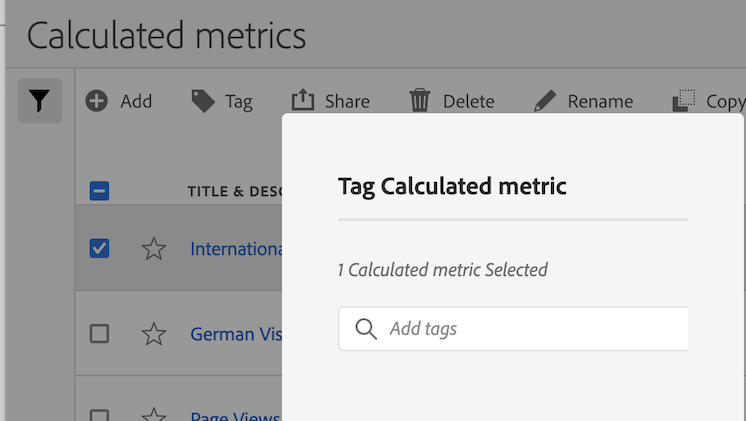
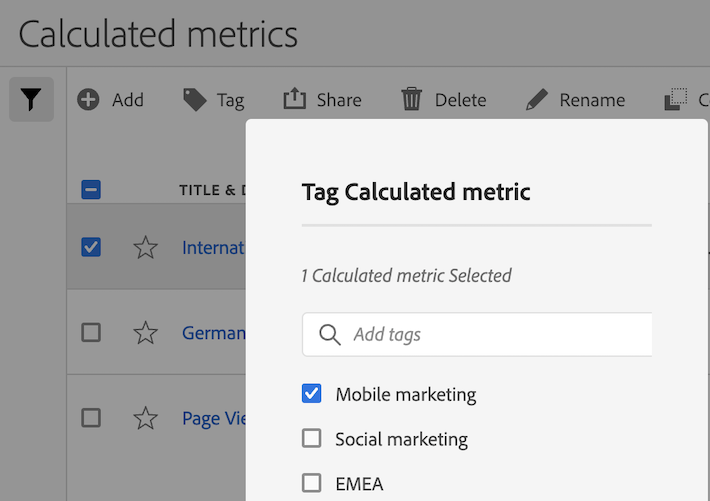
More updates

diff --git a/help/components/c-calcmetrics/c-workflow/cm-workflow/cm-manager.md b/help/components/c-calcmetrics/c-workflow/cm-workflow/cm-manager.md
@@ -1,6 +1,6 @@
 ---
 description: The Calculated metrics page offers many ways of curating metrics, such as sharing, filtering, tagging, approving, copying, deleting, and marking as favorites.
-title: Calculated Metric Manager
+title: Calculated metrics manager
 feature: Calculated Metrics
 exl-id: 32430e77-2450-4672-9c21-255e76802a4c
 ---
@@ -8,23 +8,30 @@ exl-id: 32430e77-2450-4672-9c21-255e76802a4c
 
 The Calculated metrics page offers many ways of curating metrics, such as sharing, filtering, tagging, approving, copying, deleting, and marking as favorites.
 
-The Calculated metrics page shows you all the segments you own and that have been shared with you. Admin-level users can see all custom metrics in the organization. This overview presents the user interface and the capabilities of the Calculated metrics page. Access it by
+The Calculated metrics page shows you all the segments you own and that have been shared with you. Admin-level users can see all custom metrics in the organization. 
 
-* Going to **[!UICONTROL Analytics]** > **[!UICONTROL Components]** in the left navigation. Then click **[!UICONTROL Calculated Metrics]**.
+## Areas of the Calculated metrics manager
+
+The following image and accompanying table explain some of the main areas and features of the Calculated metrics manager. 
 
 ![](assets/calcmet_mgr_ui.png)
 
-| UI Feature  | Description  |
+| Location in image  | Name and function  |
 |---|---|
-| Calculated Metrics Management Tool Bar  | Once you have checked a metric, this tool bar appears. Most management tasks can be completed from this tool bar.  |
-| Show/Hide Filters  | Clicking Show Filters brings up the filter menu. You can filter by Tags, Report Suites, Owners, Show All (Admin only), Shared with Me, Mine, Favorites, and Approved.  |
-| Check boxes  | Check a custom metric in order to manage it.  |
-| Favorites  | Clicking the star next to a metric turns the star yellow and marks the metric as a favorite.  |
-| Segment titles and descriptions  | Provided in the Calculated Metric Builder. To edit the title and description, click the title link - this takes you back to the Calculated Metric Builder.  |
-| Report Suites  | This column indicates in which report suite the metric was last saved.  |
-| Owner  | Indicates who owns the custom metric. As a non-Admin, you can see only metrics you own or those that were shared with you.  |
-| Tags  | Shows tags that were applied to the metric, either by you or by people who shared the segment with you.  |
-| Shared with  | Lists individuals or groups (Admin only) or All (Admin only) that you shared the segment with.  |
-| Column selector  | Lets you select or deselect columns in the Calculated metrics page so that you can customize the view.  |
-| Shared icon (not shown)  | Indicates that this custom metric is shared by you or with you.  |
-| Approved icon (not shown)  | Indicates that this custom metric has been approved by an Administrator.  |
+| 1 | **Calculated metrics manager toolbar:** After you select a metric, this toolbar appears. Most management tasks can be completed from this toolbar.  |
+| 2 | **Filter:** You can filter by tags, report suites, owners, all (admin only), shared with me, mine, favorites, and approved (admin only).  |
+| 3 | **Select boxes:** Select a custom metric in order to manage it.  |
+| 4 | **Favorites:** Selecting the star next to a metric marks the metric as a favorite.  |
+| 5| **Segment titles and descriptions:** These values are provided in the Calculated metric builder. To edit the title and description, select the title link to open the Calculated metric builder.  |
+| 6 | **Report suite:** Indicates in which report suite the metric was last saved.  |
+| 7 | **Owner:** Indicates who owns the custom metric. As a non-admin, you can see only metrics you own or those that were shared with you.  |
+| 8 | **Tags:** Shows tags that were applied to the metric, either by you or by people who shared the segment with you.  |
+| 9 | **Shared with:** Lists individuals or groups (admin only) or All (admin only) that you shared the segment with.  |
+| 10 | **Column selector:** Lets you select or deselect columns in the Calculated metrics page so that you can customize the view.  |
+| Not shown in image | **Date modified:** Indicates the date when the custom metric was last modified.  |
+
+{style="table-layout:auto"}
+
+## Access the Calculated metrics manager
+
+1. In Adobe Analytics, select [!UICONTROL **Components**] > [!UICONTROL **Calculated metrics**].

diff --git a/help/components/c-calcmetrics/c-workflow/cm-workflow/cm-sharing.md b/help/components/c-calcmetrics/c-workflow/cm-workflow/cm-sharing.md
@@ -10,27 +10,35 @@ Depending on your permissions, you can share metrics with your whole organizatio
 
 |  Role | Permissions |
 |---|---|
-|  Administrator  | Can share metrics with All, with Groups, and with Users. Groups are set up as permission groups in the Admin console.  |
+|  Administrator  | Can share metrics with All, with Groups, and with Users. Groups are set up as permission groups in the Admin Console. |
 |  Non-Administrator  | Can share metrics only with individual users.  |
 
-When should you share metrics with the entire company versus just a group of users or individuals? Here are some best practices you might follow:
+To share a calculated metric:
 
-* As an Admin, share a metric with **[!UICONTROL All]** if it's of use to the entire company and everyone is comfortable using it. In this case, you should also consider making it an approved metric.
-* As an Admin, share a metric with a specific **[!UICONTROL Group]** if the metric provides good business value for that team.
-* As an Admin or an individual user, share a metric with other individuals to vet and validate it. If it doesn't prove useful, it can be discarded. Do not officially approve this type of metric.
+1. In the Calculated Metric Manager, select the checkbox to the left of any metrics that you want to share. 
 
-1. In the Calculated Metric Manager, mark the checkbox next to the metric you want to share. The task bar appears:
+1. Select **[!UICONTROL Share]**.
 
-   ![](assets/cm_task_bar.png)
-
-1. Click the **[!UICONTROL Share]** icon.
+   The Share Calculated metric dialog box displays.
 
    ![](assets/cm_share.png)
 
-   If you are an Admin, you can select **[!UICONTROL All]** or choose from **[!UICONTROL Groups]** and (scroll down to) **[!UICONTROL Users]** in your organization. As a non-Admin, you can see only individual users. Use the **[!UICONTROL Search]** field to search for groups or users 
+1. Choose who you want to share with:
 
-1. Click **[!UICONTROL Share]**.
+   * **[!UICONTROL All]** (Administrators only): Shares with all users in the organization.
+
+     Consider sharing with all only if it's of use to the entire company and everyone is comfortable using it. In this case, you should also consider making it an [approved metric](/help/components/c-calcmetrics/c-workflow/cm-workflow/cm-approving.md).
+   
+   * **[!UICONTROL Groups]** (Administrators only): Select any groups you want to share with.
+
+     Consider sharing with a group if the metric provides good business value for that team.
+   
+   * **[!UICONTROL Individual users]**: Search for and select the individual users you want to share with.
+
+      This is the only share option available to all users. Administrators might want to use this option to vet and validate a metric prior to making it available to a group or to everyone. If the metric isn't useful, it can be discarded. Administrators should not officially approve this type of metric.
+
+1. Select **[!UICONTROL Share]**.
 
    The Shared icon appears next to the metric:  ![](assets/share_icon.png)
 
-1. You can filter on metrics shared with you by going to **[!UICONTROL Filters]** > **[!UICONTROL Other Filters]** > **[!UICONTROL Shared with Me]**.
+1. (Optional) To filter the list of calculated metrics in the Calculated metrics manager to show only metrics that are shared with you, select the **Filter** icon, expand **[!UICONTROL Other filters]**, then select **[!UICONTROL Shared with me]**.

diff --git a/help/components/c-calcmetrics/c-workflow/cm-workflow/cm-tagging.md b/help/components/c-calcmetrics/c-workflow/cm-workflow/cm-tagging.md
@@ -12,28 +12,38 @@ All users can create tags for calculated metrics and apply one or more tags to a
 
 >[!TIP]
 >
->The most useful types of tags are usually tags that are based on:
+>The most useful types of tags are usually tags that are based on the following criteria:
 
 * **Team names**, such as Social Marketing, Mobile Marketing.
 * **Projects** (analysis tags), such as Entry-page analysis.
 * **Categories**, such as Women's; Geography.
 * **Workflows**, such as To be approved; Curated for (a specific business unit)
 
-To apply a tag to a calculated metric:
+## Apply tags to a calculated metric
 
-1. In the Calculated metric manager, mark the checkbox next to the metric you want to tag. 
+1. In Adobe Analytics, select [!UICONTROL **Components**] > [!UICONTROL **Calculated metrics**] to go to the Calculated metrics manager.
 
-   The management tool bar appears.
+1. In the Calculated metrics manager, select the checkbox next to any metrics that you want to tag. 
+
+   ![](assets/cm_add_tags.png)
    
-1. Click **[!UICONTROL Tag]** and either
+1. In the **[!UICONTROL Tag Calculated metric]** dialog box:
 
-    * select from existing tags, or 
-    * add a new tag name in the Add Tags/Search dialog box and press **[!UICONTROL Enter]**.
+    * Add a new tag. Type the name in the [!UICONTROL **Add tags**] field, then press Enter.
+    * Select one or more existing tags to apply to the selected metrics. 
 
-      ![](assets/cm_add_tags.png)
+1. Select [!UICONTROL **Save**] to apply the tags.
 
-1. Click **[!UICONTROL Tag]** again to tag the metric.
+## View applied tags
 
-The tag should now appear in the Tags column. (Click the gear icon on the top right to manage your columns.)
+1. In Adobe Analytics, select [!UICONTROL **Components**] > [!UICONTROL **Calculated metrics**] to go to the Calculated metrics manager.
 
-You can also filter on tags by going to **[!UICONTROL Show Filters]** > **[!UICONTROL Tags]**.
+1. In the Calculated metrics manager, tags appear in the [!UICONTROL **Tags**] column. (Click the gear icon on the top-right to manage your columns.)
+
+## Filter metrics by tags
+
+1. In Adobe Analytics, select [!UICONTROL **Components**] > [!UICONTROL **Calculated metrics**] to go to the Calculated metrics manager.
+
+1. In the Calculated metrics manager, select the **Filter** icon, then select the tags that you want to filter by. 
+
+   Only metrics that have the filter you select are shown.

diff --git a/help/components/c-calcmetrics/c-workflow/cm-workflow/cm-approving.md b/help/components/c-calcmetrics/c-workflow/cm-workflow/cm-approving.md
@@ -6,15 +6,22 @@ exl-id: ec39937c-27e8-4725-832c-5e1c989d1c9f
 ---
 # Approve calculated metrics
 
-Within the Calculated Metric Manager, you can set up a workflow that includes approving metrics for various levels of application and for specific departments or groups.
+In the Calculated metrics manager, you can set up a workflow that includes approving metrics for various levels of application and for specific departments or groups.
 
-Here is how to flag a calculated metric as approved:
+To mark calculated metrics as approved:
 
-1. In Calculated Metric Manager, check the checkbox to the left of the metric title.
-1. Click **[!UICONTROL Approve]** in the management task at the top.
-1. Consider sharing the approved calculated metric/s with your organization.
-1. Click **[!UICONTROL OK]**.
-1. Notice the approval icon next to the calculated metric in the list:  ![](assets/cm_approve_icon.png)
+1. In Adobe Analytics, select [!UICONTROL **Components**] > [!UICONTROL **Calculated metrics**] to go to the Calculated metrics manager.
 
-1. You can also click **[!UICONTROL Unapprove]** to take this metric off the list of approved ones.
-1. And you can filter on approved metrics by clicking **[!UICONTROL Show Filters]** > **[!UICONTROL Other Filters]** > **[!UICONTROL Approved]**.
+1. In the Calculated metrics manager, select the checkbox to the left of any metrics that you want to mark as approved.
+
+1. Select **[!UICONTROL Approve]** in the management task at the top of the page.
+
+   To remove a metric from the list of approved metrics, select **[!UICONTROL Unapprove]**.
+
+1. (Optional) Share the metric with other users in your organization, as described in [Share calculated metrics](/help/components/c-calcmetrics/c-workflow/cm-workflow/cm-sharing.md).
+
+1. Select **[!UICONTROL OK]**.
+
+   Notice the approval icon next to the calculated metric in the list:  ![](assets/cm_approve_icon.png)
+
+1. (Optional) To filter the list of calculated metrics in the Calculated metrics manager to show only approved metrics, select the **Filter** icon, expand **[!UICONTROL Other filters]**, then select **[!UICONTROL Approved]**.
